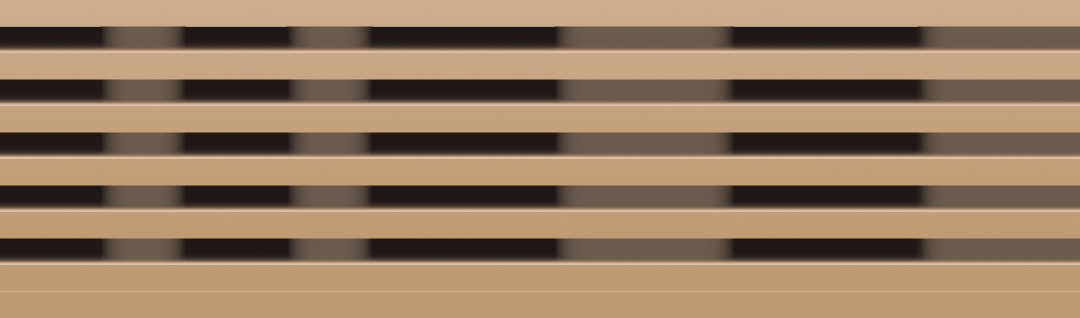
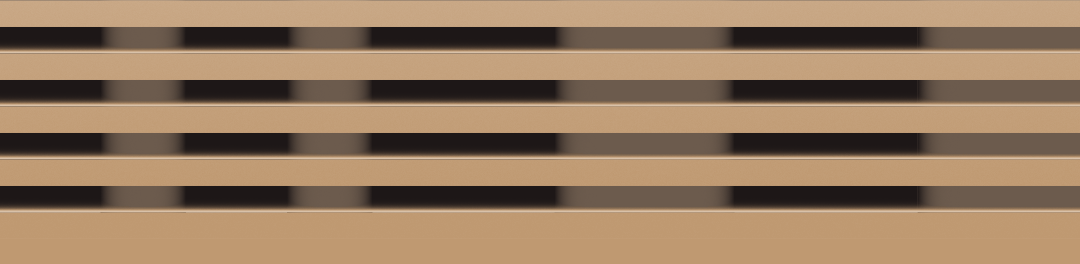
smartphone theme changed to prevent START button accidental pressing while swiping

diff --git a/app/src/main/java/com/conanizer/pockettracker/ThemeEditorModule.kt b/app/src/main/java/com/conanizer/pockettracker/ThemeEditorModule.kt
@@ -30,22 +30,22 @@ class ThemeEditorModule : TrackerModule {
         )
 
         val COLOR_ROWS = listOf(
-            ColorRow("BACKGRND", { it.background },    { t, v -> t.copy(background    = v) }),
-            ColorRow("ROW 4TH ", { it.rowEvery4th },   { t, v -> t.copy(rowEvery4th   = v) }),
-            ColorRow("ROW CURS", { it.rowCursor },     { t, v -> t.copy(rowCursor     = v) }),
-            ColorRow("ROW PLAY", { it.rowPlayback },   { t, v -> t.copy(rowPlayback   = v) }),
-            ColorRow("ROW SEL ", { it.rowSelection },  { t, v -> t.copy(rowSelection  = v) }),
-            ColorRow("TXT TITL", { it.textTitle },     { t, v -> t.copy(textTitle     = v) }),
-            ColorRow("TXT PARA", { it.textParam },     { t, v -> t.copy(textParam     = v) }),
-            ColorRow("TXT VALU", { it.textValue },     { t, v -> t.copy(textValue     = v) }),
-            ColorRow("TXT CURS", { it.textCursor },    { t, v -> t.copy(textCursor    = v) }),
-            ColorRow("TXT EMPT", { it.textEmpty },     { t, v -> t.copy(textEmpty     = v) }),
-            ColorRow("VIZ BG  ", { it.vizBackground }, { t, v -> t.copy(vizBackground = v) }),
-            ColorRow("VIZ LINE", { it.vizCenterLine }, { t, v -> t.copy(vizCenterLine = v) }),
-            ColorRow("VIZ WAVE", { it.vizWave },       { t, v -> t.copy(vizWave       = v) }),
-            ColorRow("MTR LOW ", { it.meterLow },      { t, v -> t.copy(meterLow      = v) }),
-            ColorRow("MTR MID ", { it.meterMid },      { t, v -> t.copy(meterMid      = v) }),
-            ColorRow("MTR HIGH", { it.meterHigh },     { t, v -> t.copy(meterHigh     = v) })
+            ColorRow("BACKGROUND", { it.background },    { t, v -> t.copy(background    = v) }),
+            ColorRow("ROW 4TH",    { it.rowEvery4th },   { t, v -> t.copy(rowEvery4th   = v) }),
+            ColorRow("ROW CURSOR", { it.rowCursor },     { t, v -> t.copy(rowCursor     = v) }),
+            ColorRow("ROW PLAY",   { it.rowPlayback },   { t, v -> t.copy(rowPlayback   = v) }),
+            ColorRow("ROW SELECT", { it.rowSelection },  { t, v -> t.copy(rowSelection  = v) }),
+            ColorRow("TXT TITLE",  { it.textTitle },     { t, v -> t.copy(textTitle     = v) }),
+            ColorRow("TXT PARAM",  { it.textParam },     { t, v -> t.copy(textParam     = v) }),
+            ColorRow("TXT VALUE",  { it.textValue },     { t, v -> t.copy(textValue     = v) }),
+            ColorRow("TXT CURSOR", { it.textCursor },    { t, v -> t.copy(textCursor    = v) }),
+            ColorRow("TXT EMPTY",  { it.textEmpty },     { t, v -> t.copy(textEmpty     = v) }),
+            ColorRow("VIZ BG",     { it.vizBackground }, { t, v -> t.copy(vizBackground = v) }),
+            ColorRow("VIZ LINE",   { it.vizCenterLine }, { t, v -> t.copy(vizCenterLine = v) }),
+            ColorRow("VIZ WAVE",   { it.vizWave },       { t, v -> t.copy(vizWave       = v) }),
+            ColorRow("MTR LOW",    { it.meterLow },      { t, v -> t.copy(meterLow      = v) }),
+            ColorRow("MTR MID",    { it.meterMid },      { t, v -> t.copy(meterMid      = v) }),
+            ColorRow("MTR HIGH",   { it.meterHigh },     { t, v -> t.copy(meterHigh     = v) })
         )
     }
 
@@ -66,11 +66,11 @@ class ThemeEditorModule : TrackerModule {
         )
 
         val nameColumnX = x + 10
-        val rColumnX    = x + 200
-        val gColumnX    = x + 237
-        val bColumnX    = x + 274
-        val swatchX     = x + 320
-        val swatchW     = width - 320 - 10
+        val rColumnX    = x + 230
+        val gColumnX    = x + 267
+        val bColumnX    = x + 304
+        val swatchX     = x + 350
+        val swatchW     = width - 350 - 10
 
         // Theme name / SAVE / LOAD column positions
         val themeNameX  = x + 165

diff --git a/app/src/main/java/com/conanizer/pockettracker/ScreenLayouts.kt b/app/src/main/java/com/conanizer/pockettracker/ScreenLayouts.kt
@@ -379,10 +379,10 @@ fun LandscapeLayoutWithVirtualButtons(
 // PORTRAIT2 LAYOUT — Retro device skin (20:9 phones)
 //
 // Structure (all heights in X-units, X = deviceWidth / 135):
-//   1. TOP PANEL     — ventilation grille, 39.75X tall
+//   1. TOP PANEL     — ventilation grille, 33X tall
 //   2. SCREEN BEZEL  — frame + tracker screen inside, 102.75X tall
 //   3. BRANDING STRIP— logo + LEDs, 22.5X tall
-//   4. BUTTON CLUSTER— themed 4×4 grid, 135X tall
+//   4. BUTTON CLUSTER— themed 4×4 grid, 141.75X tall (buttons use 135X; 6.75X spacer at bottom)
 //
 // Total: 300X = deviceWidth × (300/135) = deviceWidth × 20/9  (perfect 20:9)
 // ============================================================================
@@ -408,7 +408,7 @@ fun PortraitLayout2WithVirtualButtons(
     //   Case B (18:9–19.5:9): X from width → top panel shrinks/disappears to absorb
     //     the height deficit; bezel/branding/buttons remain full device width.
     //
-    //   Case C (<260.25/135 ≈ 1.928 ratio, e.g. 16:9=1.778): height is the constraint.
+    //   Case C (<267/135 ≈ 1.978 ratio, e.g. 16:9=1.778): height is the constraint.
     //     X is derived from height so bezel+branding+buttons fill the screen height.
     //     Skin width (135X) becomes narrower than the device — casingColor fills the sides.
     val xFromWidth = deviceW / 135f
@@ -425,17 +425,17 @@ fun PortraitLayout2WithVirtualButtons(
         xFromWidth * 300f <= deviceH -> {
             // Case A: full skin fits vertically at width-derived X
             X = xFromWidth
-            topPanelH = (deviceH - X * 260.25f).toInt().coerceAtMost((X * 39.75f).toInt())
+            topPanelH = (deviceH - X * 267f).toInt().coerceAtMost((X * 33f).toInt())
         }
-        xFromWidth * 260.25f <= deviceH -> {
+        xFromWidth * 267f <= deviceH -> {
             // Case B: top panel shrinks (can reach 0) to absorb the height deficit
             X = xFromWidth
-            topPanelH = (deviceH - X * 260.25f).toInt().coerceAtLeast(0)
+            topPanelH = (deviceH - X * 267f).toInt().coerceAtLeast(0)
         }
         else -> {
             // Case C: skin is height-constrained; derive X from remaining height after branding
             topPanelH = 0
-            X = (deviceH - brandingH) / (102.75f + 135f)
+            X = (deviceH - brandingH) / (102.75f + 141.75f)
         }
     }
 
@@ -443,7 +443,7 @@ fun PortraitLayout2WithVirtualButtons(
     val contentW    = (X * 135f).toInt()
     val contentWDp  = (contentW / density).dp
     val bezelH      = (X * 102.75f).toInt()
-    val buttonAreaH = (X * 135f).toInt()
+    val buttonAreaH = (X * 141.75f).toInt()
 
     // When screenBezelThicknessX > 0 the border is expressed in X-units (proportional to skin
     // scale) so it exactly matches the scaled PNG border on every device.  Fall back to the